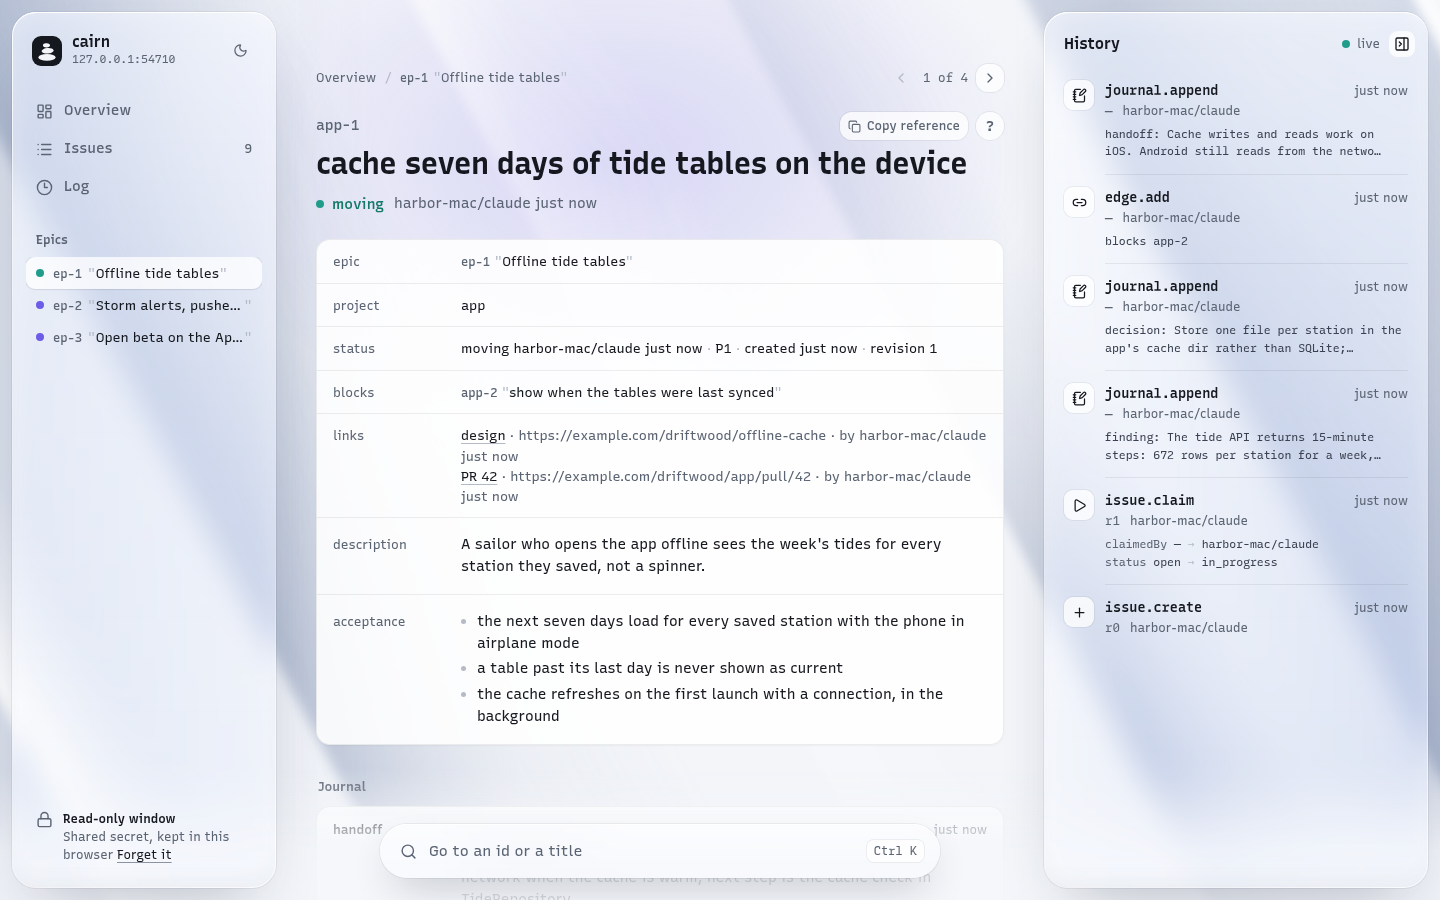
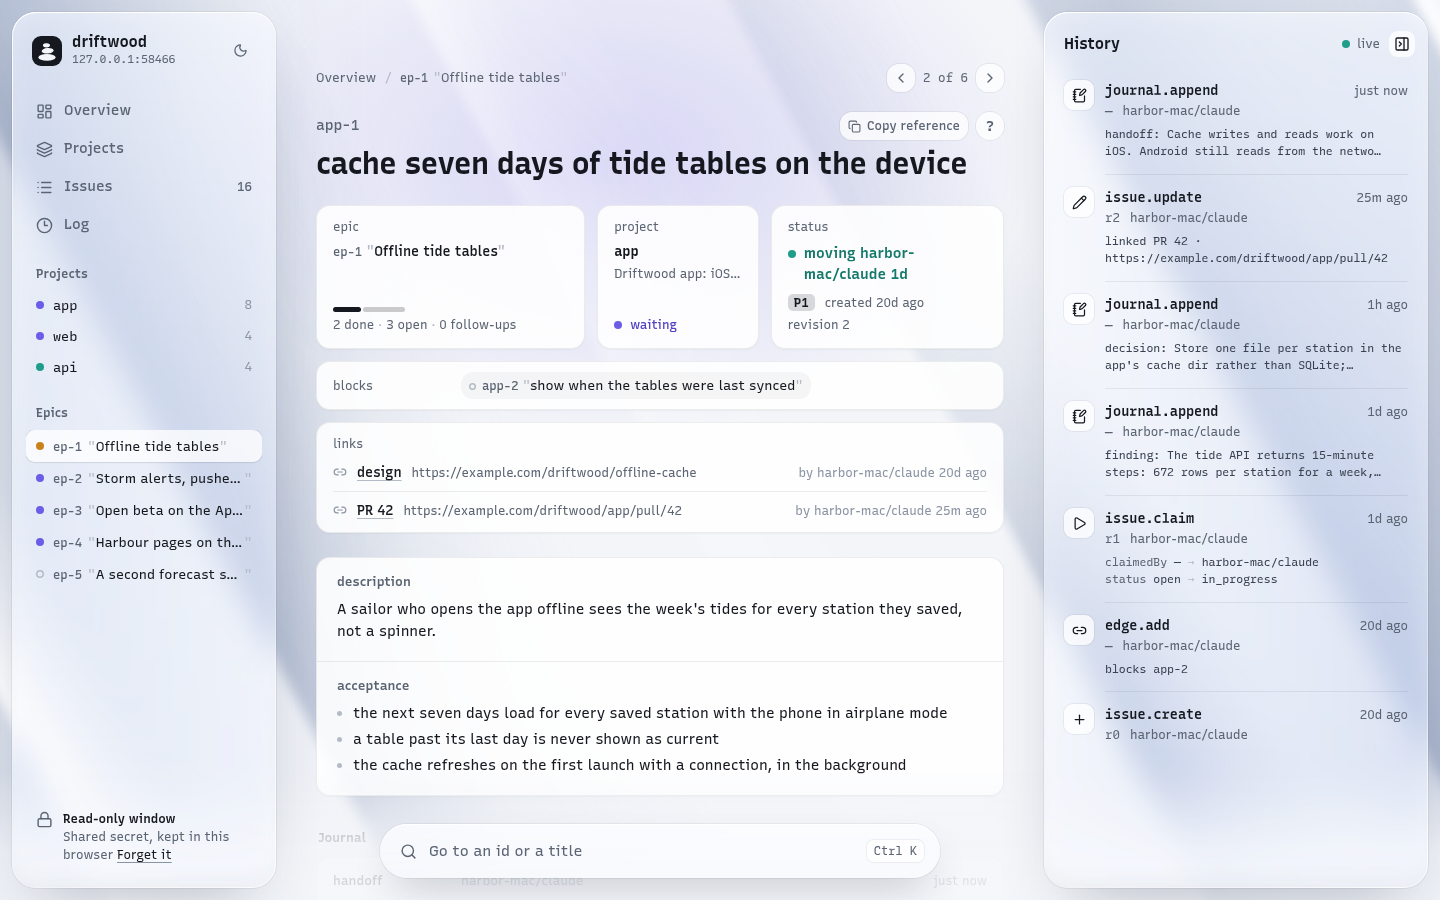
docs: the README's screenshots show a busy demo worklist (#125)
* docs: the README's screenshots show a busy demo worklist, retaken on today's page

The screenshots predated the Projects page and the project strips, and
their worklist had two claims, two waits and every time reading "just
now", which looked like a demo rather than a team at work.

They are retaken from the Driftwood worklist seeded through real cn
calls on a throwaway: five epics, three projects, four agents across
two machines and CI, three waits, and times spread over three weeks.
The brief sample in How it works is that worklist's own brief, so the
text and the pictures agree.

* docs: the README shows its screenshots in dark mode for every reader

* revert: the README's screenshots switch with the reader's theme again

Light and dark PNGs both stay, and each reader sees the one matching
their GitHub theme.

---------

diff --git a/README.md b/README.md
@@ -56,7 +56,7 @@ the stack of stones a traveller leaves to mark the route for whoever comes next.
 
 <picture>
   <source media="(prefers-color-scheme: dark)" srcset="docs/images/overview-dark.png">
-  <img alt="The cairn web page for Driftwood, a tide-and-weather app's worklist: each epic with its health line, the issues in progress with who holds them, and the blockers waiting on a person." src="docs/images/overview-light.png">
+  <img alt="The cairn web page for Driftwood, a tide-and-weather app's worklist: three waiting on you, four in progress and six ready; a strip per project with four weeks of activity; the three blockers waiting on a person and the issues they hold; and the live activity of four agents on the right." src="docs/images/overview-light.png">
 </picture>
 
 _A demo worklist, for a fictional team building a tide-and-weather app._
@@ -108,10 +108,10 @@ brief like this:
 ```text
 cairn · driftwood · harbor-mac/claude
 projects        api · app · web
-ready 3         web-1 "beta signup page with a waitlist" P1 · app-5 "alert settings: a wind threshold per boat" P2 · app-3 "offline banner overlaps the chart in landscape" P3
-in progress     app-1 "cache seven days of tide tables on the device" harbor-mac/claude just now · yours · api-3 "rate-limit the alert fan-out per sea area" ci-linux/claude just now
-follow-ups      app-9 "verify: vibrate pattern for gale alerts" [verify]
-waiting on you  2
+ready 6         web-1 "beta signup page with a waitlist" P1 · app-5 "alert settings: a wind threshold per boat" P2 · api-8 "pull wind and swell from Open-Meteo beside the current model" P2
+in progress     app-1 "cache seven days of tide tables on the device" harbor-mac/claude 1d · yours · app-8 "TestFlight build on every merge to main" maya-mbp/codex 6h · web-3 "harbour page: today's tides, forecast and berths" maya-mbp/claude 3h · api-2 "rate-limit the alert fan-out per sea area" ci-linux/claude 1h
+follow-ups      app-10 "verify: vibrate pattern for gale alerts" [verify]
+waiting on you  3
 ```
 
 Work is always named by id and title together, `app-14 "fix connection retry"`, so a
@@ -119,7 +119,7 @@ reference means something to whoever reads it, in any session on any machine.
 
 <picture>
   <source media="(prefers-color-scheme: dark)" srcset="docs/images/issue-dark.png">
-  <img alt="An issue's page in the cairn web window: its status line, the journal of what agents found while working on it, the links attached to it, and the proof it was closed with." src="docs/images/issue-light.png">
+  <img alt="An issue's page in the cairn web window: its epic, project and status, the issue it blocks, the links agents attached, its description and acceptance, and on the right the history of what happened to it over twenty days." src="docs/images/issue-light.png">
 </picture>
 
 ## What setup does
